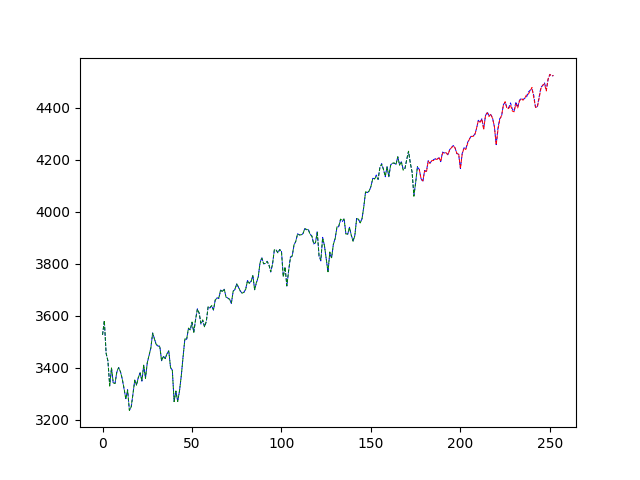
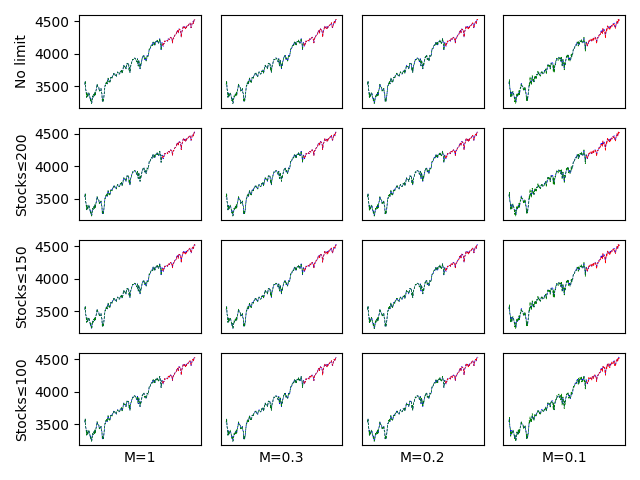
Add test to generate plots and save plots.

diff --git a/tests/test_driver_index_tracking.py b/tests/test_driver_index_tracking.py
@@ -1,11 +1,18 @@
 import pathlib
+from dataclasses import dataclass
+from typing import Union
+
+import matplotlib.pyplot as plt
+import pandas as pd
+from tqdm import tqdm
 
 from bootstrapped_argen.driver_index_tracking import DriverIndexTrackSp500Aren
 
 
 def test_driver_index_track_sp500_aren_saving_data():
-    driver = DriverIndexTrackSp500Aren(bootstrap_replicates_lst=[None, 8, 16, 32, 64, 128],  # increase
-                                       soft_J_percentage_lst=[1, 0.9, 0.8, 0.7, 0.6],  # None if no bootstrap # decrease
+    driver = DriverIndexTrackSp500Aren(bootstrap_replicates_lst=[None, 8, 16, 32, 64, 128, 256],  # increase
+                                       soft_J_percentage_lst=[1, 0.95, 0.9, 0.85, 0.8, 0.75, 0.7, 0.6],
+                                       # None if no bootstrap # decrease
                                        is_fit_intercept=False,
                                        is_center_data=True,
                                        # if is_fit_intercept is True and is_center_data is False:
@@ -34,11 +41,14 @@ def test_driver_index_track_sp500_aren_saving_data():
 def test_driver_index_track_sp500_aren_exportung_results():
     # percent_money_on_each_stock = 0.1  # M = 1, 0.3, 0.2, 0.1 # if 100%, no limit on constraints
     # max_feature_selected = None  # None, 200, 150, 100, 50
-
+    data_dir_path = pathlib.Path(__file__).parent / '../data'
     for max_feature_selected in [None, 200, 150, 100, 50]:
+        filename = data_dir_path / f'out_max{max_feature_selected}.csv'
+        file_path = pathlib.Path(filename)
+        table_all = pd.DataFrame()
         for percent_money_on_each_stock in [1, 0.3, 0.2, 0.1]:
-            driver = DriverIndexTrackSp500Aren(bootstrap_replicates_lst=[None, 8, 16, 32, 64, 128],
-                                               soft_J_percentage_lst=[1, 0.9, 0.8, 0.7, 0.6],
+            driver = DriverIndexTrackSp500Aren(bootstrap_replicates_lst=[None, 8, 16, 32, 64, 128, 256],
+                                               soft_J_percentage_lst=[1, 0.95, 0.9, 0.85, 0.8, 0.75, 0.7, 0.6],
                                                is_fit_intercept=False,
                                                is_center_data=True,
                                                # do not change above
@@ -56,21 +66,20 @@ def test_driver_index_track_sp500_aren_exportung_results():
                                                test_size=0.1)
 
             table, latex = driver.run_all()
-            data_dir_path = pathlib.Path(__file__).parent / '../data'
-            filename = data_dir_path / f'out_intercept{driver.is_fit_intercept}_center{driver.is_center_data}_M{percent_money_on_each_stock}_max{max_feature_selected}.csv'
-            file_path = pathlib.Path(filename)
-            table.to_csv(file_path)
+            table_all = table_all.append(table)
+        table_all.to_csv(file_path)
 
 
-def test_driver_index_track_sp500_aren_plot():
+def test_driver_index_track_sp500_aren_plot_one():
     is_fit_intercept = False  # True or False
     is_center_data = True  # True or False
     percent_money_on_each_stock = 0.3  # M = 1, 0.3, 0.2, 0.1 # if 100%, no limit on constraints
     max_feature_selected = None  # None, 200, 150, 100, 50
     bootstrap_replicates = 16  # None, 8, 16, 32, 64, 128
     soft_J_percentage = 0.8  # 1, 0.9, 0.8, 0.7, 0.6
-    driver = DriverIndexTrackSp500Aren(bootstrap_replicates_lst=[None, 8, 16, 32, 64, 128],  # # increaing list
-                                       soft_J_percentage_lst=[1, 0.9, 0.8, 0.7, 0.6],  # None if no bootstrap # decrease
+    driver = DriverIndexTrackSp500Aren(bootstrap_replicates_lst=[None, 8, 16, 32, 64, 128, 256],  # # increaing list
+                                       soft_J_percentage_lst=[1, 0.95, 0.9, 0.85, 0.8, 0.75, 0.7, 0.6],
+                                       # None if no bootstrap # decrease
                                        # do not change above
                                        # change below to export results
                                        is_fit_intercept=is_fit_intercept,
@@ -89,3 +98,75 @@ def test_driver_index_track_sp500_aren_plot():
 
     _, _, _ = driver.run_once(bootstrap_replicates=bootstrap_replicates, soft_J_percentage=soft_J_percentage,
                               is_plot_price=True)
+
+
+@dataclass
+class BestPara:
+    Stocks: Union[None, int]
+    M: float
+    m: int
+    S: float
+
+
+def test_driver_index_track_sp500_aren_plot_many():
+    parameters = [
+        BestPara(Stocks=None, M=1, m=64, S=0.95),
+        BestPara(Stocks=None, M=0.3, m=32, S=0.75),
+        BestPara(Stocks=None, M=0.2, m=64, S=0.75),
+        BestPara(Stocks=None, M=0.1, m=32, S=0.9),
+        BestPara(Stocks=200, M=1, m=128, S=0.9),
+        BestPara(Stocks=200, M=0.3, m=32, S=0.95),
+        BestPara(Stocks=200, M=0.2, m=32, S=0.95),
+        BestPara(Stocks=200, M=0.1, m=32, S=0.9),
+        BestPara(Stocks=150, M=1, m=64, S=1),
+        BestPara(Stocks=150, M=0.3, m=64, S=1),
+        BestPara(Stocks=150, M=0.2, m=32, S=0.85),
+        BestPara(Stocks=150, M=0.1, m=32, S=0.9),
+        BestPara(Stocks=100, M=1, m=64, S=0.8),
+        BestPara(Stocks=100, M=0.3, m=64, S=0.8),
+        BestPara(Stocks=100, M=0.2, m=32, S=0.95),
+        BestPara(Stocks=100, M=0.1, m=256, S=1),
+    ]
+    fig = plt.figure()
+    i = 1
+    for parameter in tqdm(parameters):
+        is_fit_intercept = False  # True or False
+        is_center_data = True  # True or False
+        percent_money_on_each_stock = parameter.M  # M = 1, 0.3, 0.2, 0.1 # if 100%, no limit on constraints
+        max_feature_selected = parameter.Stocks  # None, 200, 150, 100, 50
+        bootstrap_replicates = parameter.m  # None, 8, 16, 32, 64, 128
+        soft_J_percentage = parameter.S  # 1, 0.9, 0.8, 0.7, 0.6
+        driver = DriverIndexTrackSp500Aren(bootstrap_replicates_lst=[None, 8, 16, 32, 64, 128, 256],  # # increaing list
+                                           soft_J_percentage_lst=[1, 0.95, 0.9, 0.85, 0.8, 0.75, 0.7, 0.6],
+                                           # None if no bootstrap # decrease
+                                           # do not change above
+                                           # change below to export results
+                                           is_fit_intercept=is_fit_intercept,
+                                           is_center_data=is_center_data,
+                                           percent_money_on_each_stock=percent_money_on_each_stock,
+                                           max_feature_selected=max_feature_selected,
+                                           # please change only above
+                                           # do not need to change below
+                                           n_alphas=10,  # from 0 to 1
+                                           n_lambdas=100,  # from 0.001*max_lam to max_lam
+                                           start_date='2020-09-01',
+                                           end_date='2021-09-01',
+                                           train_size=0.7,
+                                           val_size=0.2,
+                                           test_size=0.1)
+        plt.subplot(4, 4, i)
+        _, _, _ = driver.run_once(bootstrap_replicates=bootstrap_replicates, soft_J_percentage=soft_J_percentage,
+                                  is_plot_price=True)
+        # plt.title(f"Stocks<={max_feature_selected}, M={percent_money_on_each_stock}")
+        if i == 1:
+            plt.ylabel(f"No limit")
+        if i in [5, 9, 13]:
+            plt.ylabel(f"Stocks≤{max_feature_selected}")
+        if i in [13, 14, 15, 16]:
+            plt.xlabel(f"M={percent_money_on_each_stock}")
+        if i not in [1, 5, 9, 13]:
+            plt.yticks([])
+        plt.xticks([])
+        i += 1
+    plt.tight_layout()
+    plt.show()

diff --git a/bootstrapped_argen/driver_index_tracking.py b/bootstrapped_argen/driver_index_tracking.py
@@ -313,10 +313,11 @@ class DriverIndexTrackSp500Aren:
         price_pred = np.concatenate(([self.y_price[0]], (return_pred + 1) * self.y_price[:-1]))
         nreal = len(train_return_pred) + 1
         npred = len(test_return_pred) + len(val_return_pred)
-        plt.plot(range(nreal + npred), self.y_price, 'b--', linewidth=0.7)
-        plt.plot(range(nreal), price_pred[:nreal], 'g--', linewidth=0.7)
-        plt.plot(range(nreal, npred + nreal), price_pred[nreal:nreal + npred], 'r--', linewidth=0.7)
-        plt.show()
+        plt.plot(range(nreal + npred), self.y_price, 'b--', linewidth=0.5)
+        plt.plot(range(nreal), price_pred[:nreal], 'g--', linewidth=0.5)
+        # plt.plot(range(nreal, nreal + npred), self.y_price[nreal:nreal + npred], 'b--', linewidth=0.5)
+        plt.plot(range(nreal, npred + nreal), price_pred[nreal:nreal + npred], 'r--', linewidth=0.5)
+
 
     def _run_once(self, X_train, y_train, X_val, y_val, X_test, y_test, bootstrap_replicates: Union[int, None],
                   soft_J_percentage: float = None, is_plot_price: bool = False):
